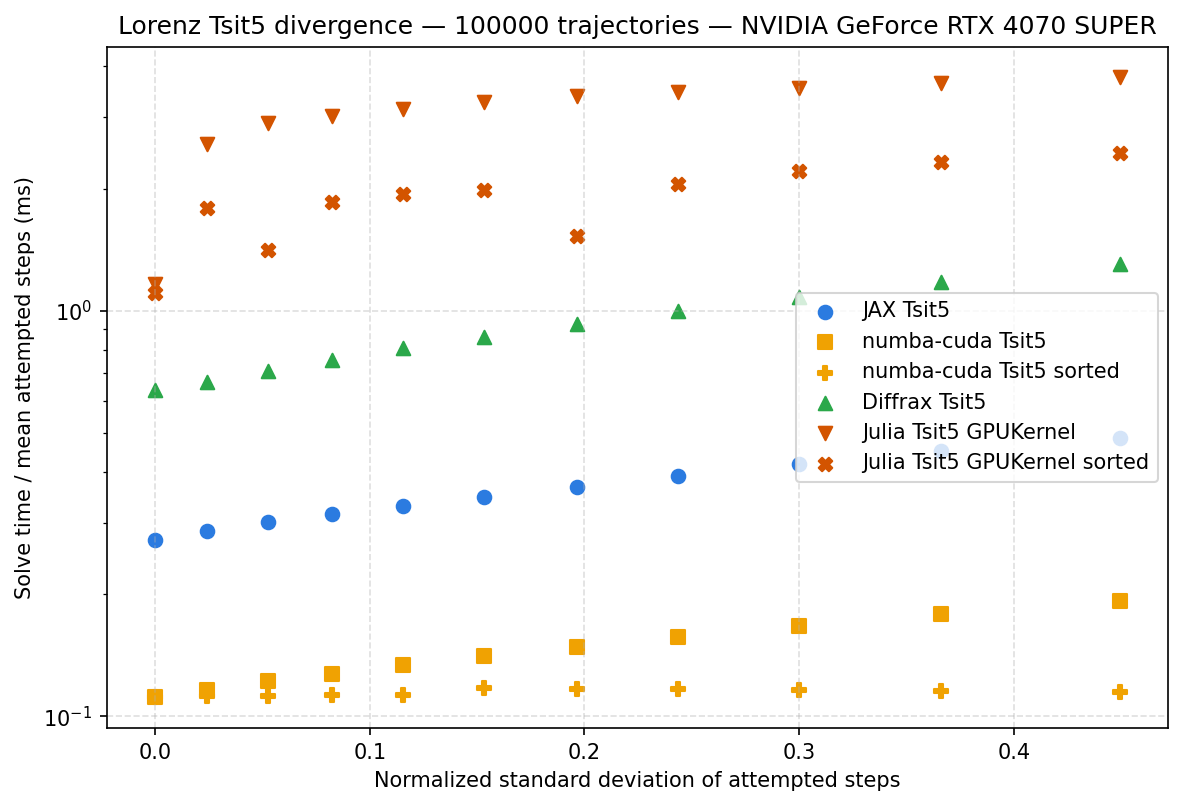
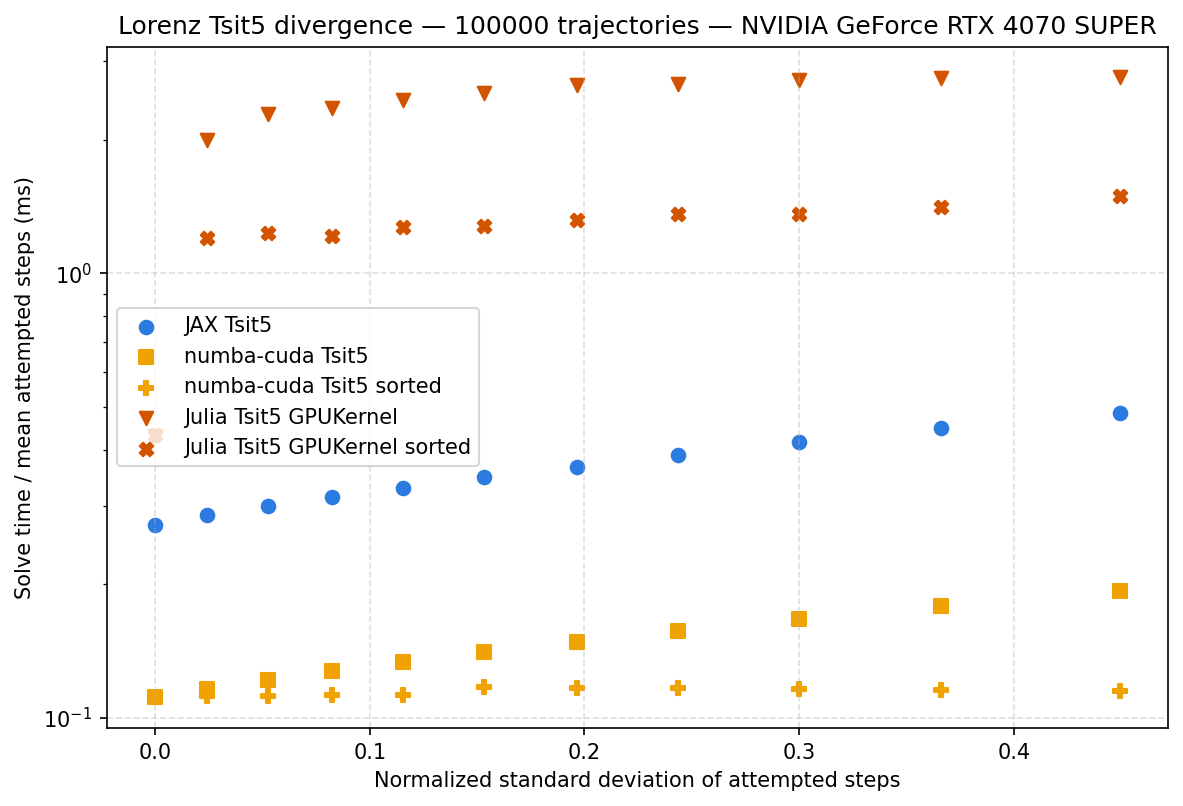
Fix Julia warmups

diff --git a/scripts/2_tsit5_divergence/main.py b/scripts/2_tsit5_divergence/main.py
@@ -57,6 +57,7 @@ _SOLVER_KWARGS = {"first_step": 1e-4, "rtol": 1e-6, "atol": 1e-8}
 
 _SCRIPT_DIR = Path(__file__).resolve().parent
 _CACHE_PATH = _SCRIPT_DIR / "results.json"
+_JULIA_CACHE_VERSION = 3
 
 _CSV_FIELDS = (
     "gpu",
@@ -178,9 +179,10 @@ def time_solve(
     solver: SolverSpec, y0: np.ndarray, params: np.ndarray
 ) -> tuple[float, dict | None]:
     if solver.mode == "julia":
+        julia_y0 = y0[0] if y0.ndim == 2 and np.all(y0 == y0[0]) else y0
         result = julia_tsit5_solve._julia_solve_with_timing(
             "lorenz",
-            y0,
+            julia_y0,
             lorenz.TIMES,
             params,
             ensemble_backend=solver.ensemble_backend,
@@ -271,6 +273,14 @@ def is_complete_row(value) -> bool:
     return isinstance(value, dict) and all(field in value for field in _CSV_FIELDS)
 
 
+def is_current_cached_row(value, solver: SolverSpec) -> bool:
+    if not is_complete_row(value):
+        return False
+    if solver.mode == "julia":
+        return value.get("julia_cache_version") == _JULIA_CACHE_VERSION
+    return True
+
+
 def collect_row(
     gpu_name: str,
     solver: SolverSpec,
@@ -314,6 +324,8 @@ def collect_row(
         **stats_summary,
         "normalized_solve_time_ms_per_step": float(normalized),
     }
+    if solver.mode == "julia":
+        row["julia_cache_version"] = _JULIA_CACHE_VERSION
     print(format_row(row), flush=True)
     return row
 
@@ -327,7 +339,7 @@ def run_benchmarks(gpu_name: str, cache: dict) -> list[dict]:
         for divergence in _DIVERGENCES:
             divergence_key = f"{divergence:.6g}"
             cached = solver_cache.get(divergence_key)
-            if is_complete_row(cached):
+            if is_current_cached_row(cached, solver):
                 row = cached
                 print(
                     f"  {solver.label:<16} divergence={divergence:>4.2f} ... "
@@ -349,7 +361,7 @@ def run_benchmarks(gpu_name: str, cache: dict) -> list[dict]:
 
 def save_csv(rows: list[dict], path: Path) -> None:
     with path.open("w", newline="") as f:
-        writer = csv.DictWriter(f, fieldnames=_CSV_FIELDS)
+        writer = csv.DictWriter(f, fieldnames=_CSV_FIELDS, extrasaction="ignore")
         writer.writeheader()
         writer.writerows(rows)
     print(f"Results saved to {path}")

diff --git a/scripts/4_rodas5_divergence/main.py b/scripts/4_rodas5_divergence/main.py
@@ -66,6 +66,7 @@ _LOCAL_SOLVER_KWARGS = {
 
 _SCRIPT_DIR = Path(__file__).resolve().parent
 _CACHE_PATH = _SCRIPT_DIR / "results.json"
+_JULIA_CACHE_VERSION = 3
 
 _CSV_FIELDS = (
     "gpu",
@@ -193,9 +194,10 @@ def time_solve(
     solver: SolverSpec, y0: np.ndarray, params: np.ndarray
 ) -> tuple[float, dict | None]:
     if solver.mode == "julia":
+        julia_y0 = y0[0] if y0.ndim == 2 and np.all(y0 == y0[0]) else y0
         result = julia_rodas5_solve._julia_solve_with_timing(
             "robertson",
-            y0,
+            julia_y0,
             _T_SPAN,
             params,
             ensemble_backend=solver.ensemble_backend,
@@ -287,6 +289,14 @@ def is_complete_row(value) -> bool:
     return isinstance(value, dict) and all(field in value for field in _CSV_FIELDS)
 
 
+def is_current_cached_row(value, solver: SolverSpec) -> bool:
+    if not is_complete_row(value):
+        return False
+    if solver.mode == "julia":
+        return value.get("julia_cache_version") == _JULIA_CACHE_VERSION
+    return True
+
+
 def collect_row(
     gpu_name: str,
     solver: SolverSpec,
@@ -330,6 +340,8 @@ def collect_row(
         **stats_summary,
         "normalized_solve_time_ms_per_step": float(normalized),
     }
+    if solver.mode == "julia":
+        row["julia_cache_version"] = _JULIA_CACHE_VERSION
     print(format_row(row), flush=True)
     return row
 
@@ -351,7 +363,7 @@ def run_benchmarks(gpu_name: str, cache: dict) -> list[dict]:
                 solver_cache.setdefault(divergence_key, None)
                 continue
             cached = solver_cache.get(divergence_key)
-            if is_complete_row(cached):
+            if is_current_cached_row(cached, solver):
                 row = cached
                 print(
                     f"  {solver.label:<20} divergence={divergence:>4.2f} ... "
@@ -373,7 +385,7 @@ def run_benchmarks(gpu_name: str, cache: dict) -> list[dict]:
 
 def save_csv(rows: list[dict], path: Path) -> None:
     with path.open("w", newline="") as f:
-        writer = csv.DictWriter(f, fieldnames=_CSV_FIELDS)
+        writer = csv.DictWriter(f, fieldnames=_CSV_FIELDS, extrasaction="ignore")
         writer.writeheader()
         writer.writerows(rows)
     print(f"Results saved to {path}")

diff --git a/reference/solvers/python/test_julia_rodas5_kernel.py b/reference/solvers/python/test_julia_rodas5_kernel.py
@@ -28,3 +28,28 @@ def test_julia_rodas5p_kernel_stiff_scalar_regression():
 
     assert ys.shape == (params.shape[0], t_span.shape[0], y0.shape[0])
     np.testing.assert_allclose(ys[:, :, 0], expected, rtol=1e-3, atol=1e-5)
+
+
+def test_julia_rodas5p_kernel_batched_y0_regression():
+    """Batched GPUKernel u0 values must stay static arrays inside Julia."""
+    y0 = np.array([[10.0], [20.0]], dtype=np.float64)
+    t_span = np.array([0.0, 0.1, 0.5, 1.0], dtype=np.float64)
+    params = np.array([[1.0], [0.5]], dtype=np.float64)
+
+    ys = np.asarray(
+        julia_rodas5_solve(
+            "stiff_scalar",
+            y0,
+            t_span,
+            params,
+            ensemble_backend="EnsembleGPUKernel",
+            first_step=1e-3,
+            rtol=1e-7,
+            atol=1e-9,
+        )
+    )
+
+    expected = y0[:, 0][:, None] * np.exp(-params[:, 0][:, None] * t_span[None, :])
+
+    assert ys.shape == (params.shape[0], t_span.shape[0], y0.shape[1])
+    np.testing.assert_allclose(ys[:, :, 0], expected, rtol=1e-3, atol=1e-5)
